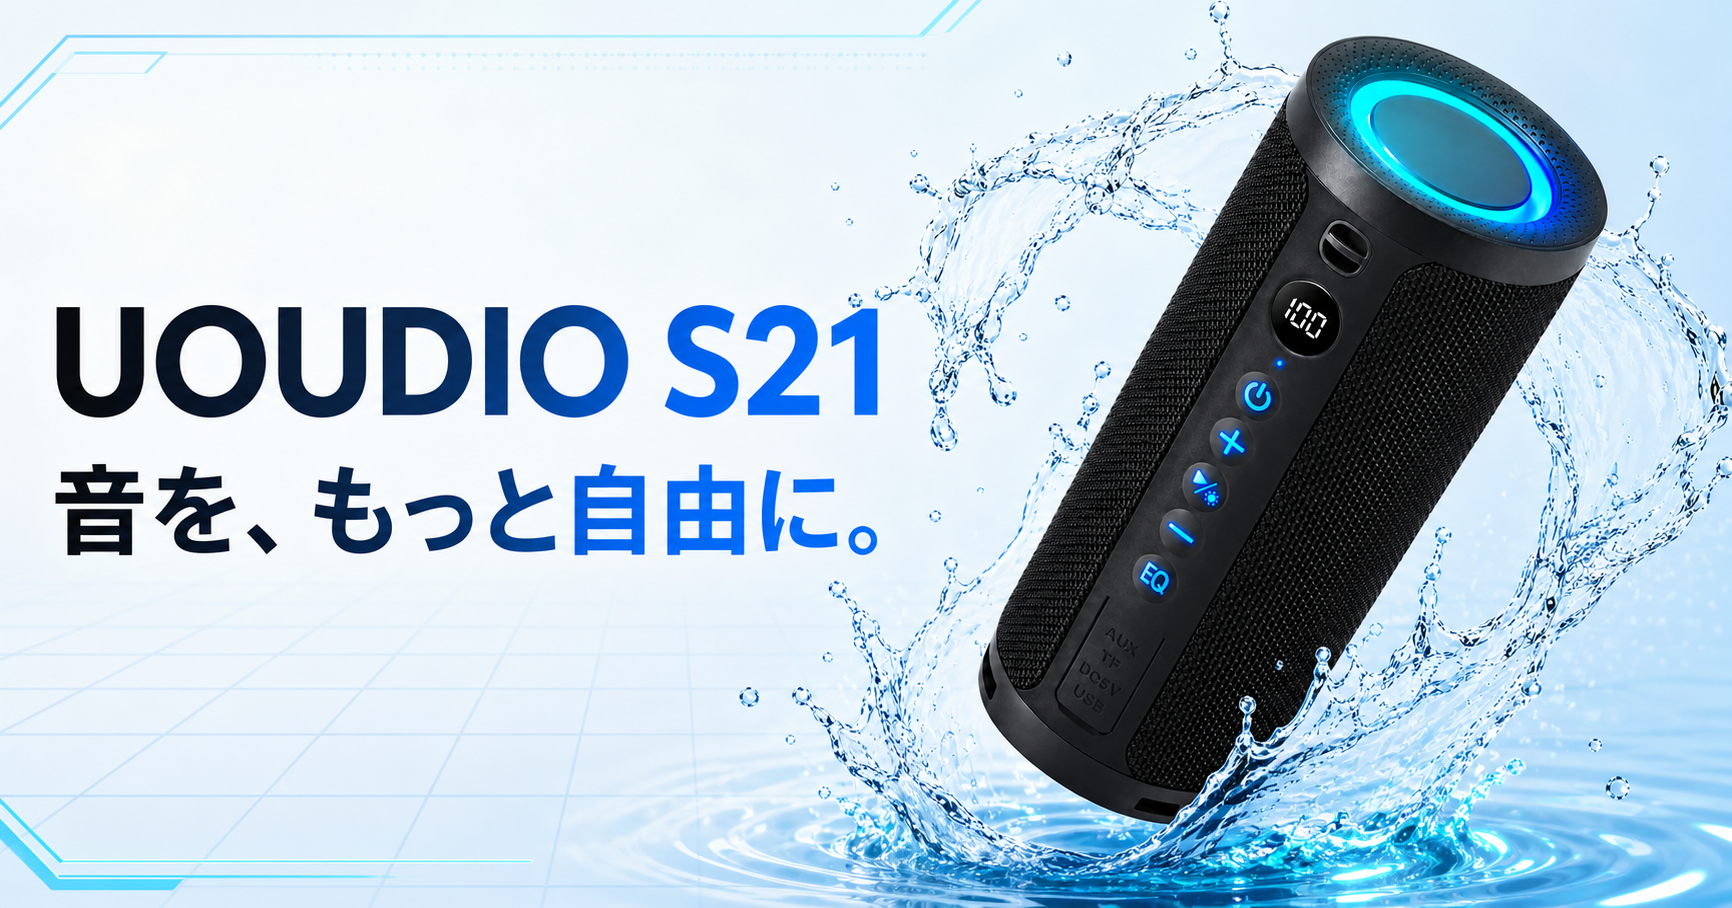
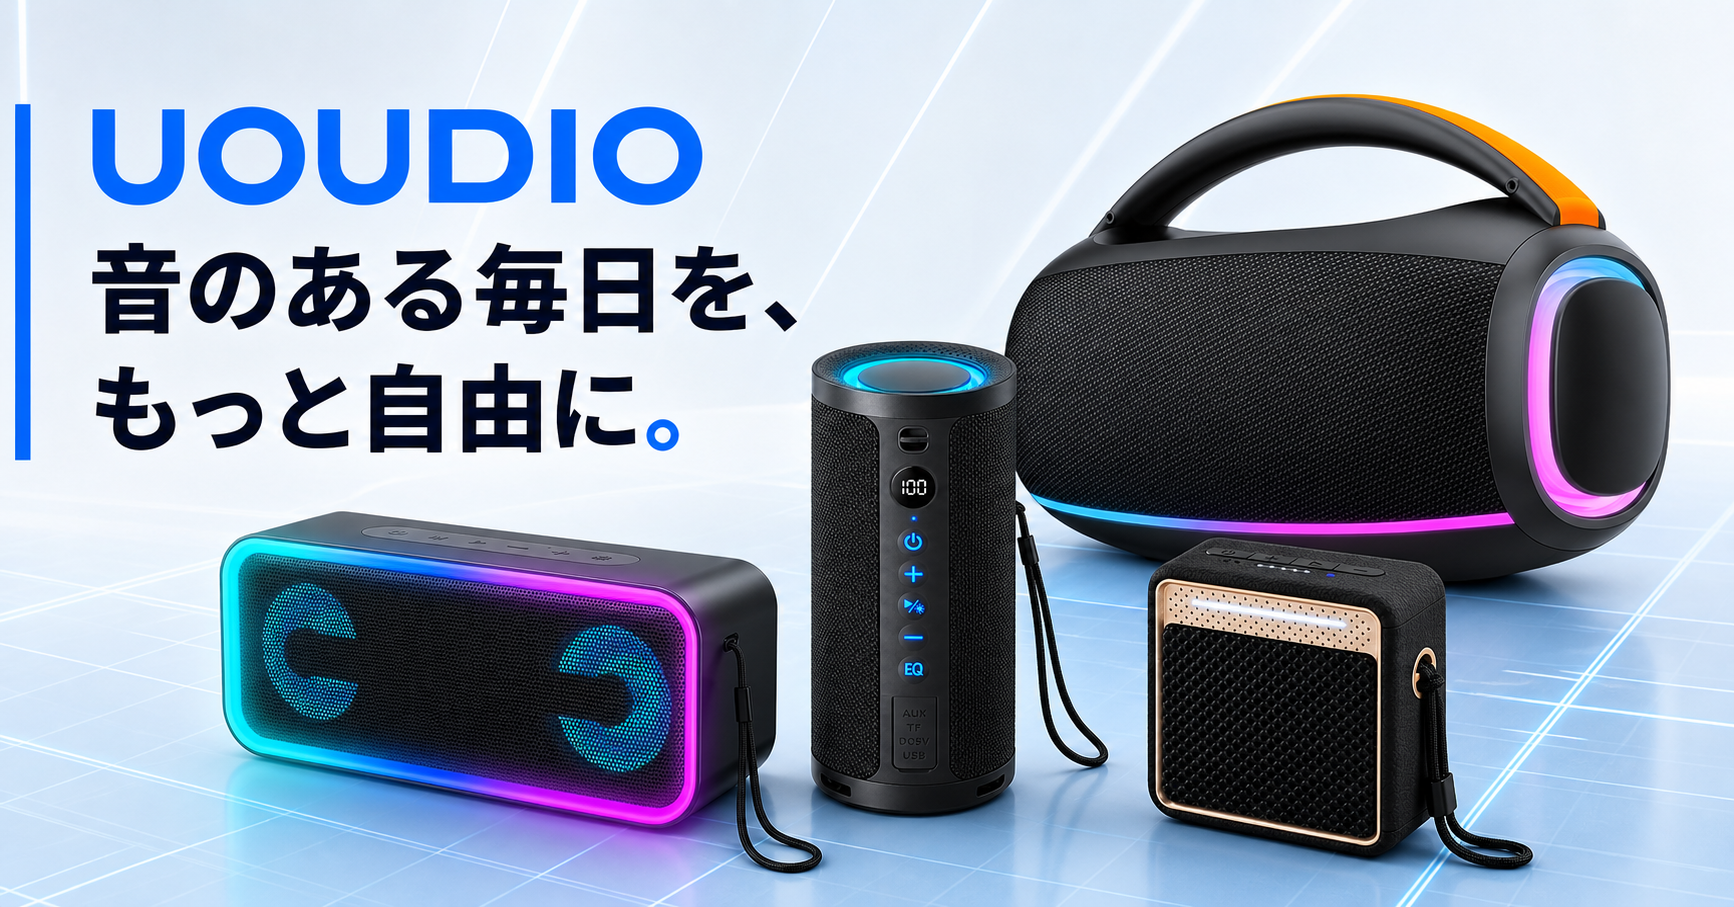
Expand homepage to full product lineup

diff --git a/app/page.tsx b/app/page.tsx
@@ -2,9 +2,9 @@ import type { Metadata } from "next";
 import Image from "next/image";
 
 export const metadata: Metadata = {
-  title: "UOUDIO S21｜防水ポータブルBluetoothスピーカー",
+  title: "UOUDIO Japan｜Bluetoothスピーカー製品一覧・サポート",
   description:
-    "UOUDIO S21の日本向け公式製品ガイド。20Wサウンド、IPX6防水、TWS、EQモードを備えたポータブルBluetoothスピーカー。使い方・よくある質問・Amazon購入後のサポートをご案内します。",
+    "UOUDIOのBluetoothスピーカー製品一覧。S2、S11、S12、S19、S20、S21、GB03、GB MINIの製品情報とAmazon購入後の日本語サポートをご案内します。",
   keywords: [
     "UOUDIO",
     "UOUDIO S21",
@@ -15,6 +15,17 @@ export const metadata: Metadata = {
     "Amazon スピーカー サポート",
   ],
 };
+
+const products = [
+  { model: "S2", image: "/s2.jpg", type: "パワフルモデル", note: "大型ハンドルとワイドなサウンド。アウトドアやパーティーに。", tags: ["RGBライト", "防水設計"] },
+  { model: "S21", image: "/s21-main.jpg", type: "NEW / バランスモデル", note: "20WサウンドとEQを搭載。家でも外でも使いやすい一台。", tags: ["20W", "IPX6", "TWS"] },
+  { model: "S19", image: "/s19.jpg", type: "ライティングモデル", note: "ワイドなRGBライトが音楽の時間を鮮やかに演出。", tags: ["RGBライト", "ポータブル"] },
+  { model: "S20", image: "/s20.jpg", type: "軽量モデル", note: "手軽に持ち運べるスリムボディ。毎日の音楽に。", tags: ["20W", "軽量", "ストラップ"] },
+  { model: "S11", image: "/s11.jpg", type: "タフモデル", note: "水辺のアクティビティにも似合う、円筒型の防水スピーカー。", tags: ["IPX7", "RGBライト"] },
+  { model: "S12", image: "/s12.jpg", type: "コンパクトモデル", note: "手のひらサイズに力強いサウンドとカラーライトを搭載。", tags: ["15W", "防水設計"] },
+  { model: "GB03", image: "/gb03.jpg", type: "ロングプレイモデル", note: "シンプルなスクエアボディで、長時間の再生にも対応。", tags: ["30W", "20時間", "DSP"] },
+  { model: "GB MINI", image: "/gb-mini.jpg", type: "ミニモデル", note: "レトロな質感とコンパクトサイズ。持ち歩きにもデスクにも。", tags: ["10W", "IPX6", "12時間"] },
+];
 
 const features = [
   {
@@ -61,13 +72,20 @@ const faq = [
 export default function Home() {
   const productSchema = {
     "@context": "https://schema.org",
-    "@type": "Product",
-    name: "UOUDIO S21 ポータブルBluetoothスピーカー",
-    brand: { "@type": "Brand", name: "UOUDIO" },
-    model: "S21",
-    description:
-      "20Wサウンド、IPX6防水、TWS、EQモードを備えたポータブルBluetoothスピーカー。",
-    image: "/s21-main.jpg",
+    "@type": "ItemList",
+    name: "UOUDIO Bluetoothスピーカー製品一覧",
+    itemListElement: products.map((product, index) => ({
+      "@type": "ListItem",
+      position: index + 1,
+      item: {
+        "@type": "Product",
+        name: `UOUDIO ${product.model} Bluetoothスピーカー`,
+        brand: { "@type": "Brand", name: "UOUDIO" },
+        model: product.model,
+        image: product.image,
+        description: product.note,
+      },
+    })),
   };
 
   const faqSchema = {
@@ -97,7 +115,7 @@ export default function Home() {
         </a>
         <nav aria-label="メインナビゲーション">
           <a href="#product">製品</a>
-          <a href="#features">特長</a>
+          <a href="#lineup">製品一覧</a>
           <a href="#support">サポート</a>
           <a href="#contact">お問い合わせ</a>
         </nav>
@@ -109,21 +127,21 @@ export default function Home() {
       <main id="top">
         <section className="hero" id="product">
           <div className="hero-copy">
-            <p className="eyebrow"><span /> UOUDIO S21</p>
-            <h1>音を、もっと<br />自由に。</h1>
+            <p className="eyebrow"><span /> PORTABLE AUDIO FOR EVERY MOMENT</p>
+            <h1>音のある毎日を、<br />もっと自由に。</h1>
             <p className="hero-lead">
-              どこへでも連れ出せる、タフでパワフルな<br className="desktop-only" />
-              ポータブルBluetoothスピーカー。
+              コンパクトからパワフルまで。暮らしにも、旅にも、<br className="desktop-only" />
+              あなたにちょうどいいUOUDIOサウンドを。
             </p>
             <div className="hero-actions">
-              <a className="button primary" href="#amazon">Amazonで製品を見る <span>↗</span></a>
+              <a className="button primary" href="#lineup">製品ラインアップ <span>↓</span></a>
               <a className="text-link" href="#support">購入後のサポート <span>→</span></a>
             </div>
             <dl className="spec-strip" aria-label="主な製品仕様">
-              <div><dt>20W</dt><dd>出力</dd></div>
-              <div><dt>IPX6</dt><dd>防水</dd></div>
-              <div><dt>TWS</dt><dd>ステレオ</dd></div>
-              <div><dt>EQ</dt><dd>モード</dd></div>
+              <div><dt>8 MODELS</dt><dd>ラインアップ</dd></div>
+              <div><dt>10–30W</dt><dd>選べる出力</dd></div>
+              <div><dt>WATER</dt><dd>防水モデル</dd></div>
+              <div><dt>RGB</dt><dd>ライト搭載</dd></div>
             </dl>
           </div>
 
@@ -142,7 +160,7 @@ export default function Home() {
             <div className="sound-lines" aria-hidden="true">
               <i /><i /><i /><i />
             </div>
-            <p className="image-note">PORTABLE<br />SOUND SYSTEM</p>
+            <p className="image-note">FEATURED MODEL<br />UOUDIO S21</p>
           </div>
         </section>
 
@@ -152,11 +170,39 @@ export default function Home() {
           <p>製品ガイドをいつでも確認</p>
         </section>
 
+        <section className="lineup section" id="lineup">
+          <div className="lineup-heading">
+            <div className="section-heading">
+              <p className="eyebrow"><span /> PRODUCT LINEUP</p>
+              <h2>あなたのスタイルに、<br />ちょうどいい一台を。</h2>
+            </div>
+            <p>サイズ、サウンド、防水性能、ライト。使う場所や楽しみ方に合わせて、UOUDIOのラインアップからお選びください。</p>
+          </div>
+          <div className="product-grid">
+            {products.map((product, index) => (
+              <article className={`product-card product-${index + 1}`} key={product.model}>
+                <div className="product-card-image">
+                  <Image src={product.image} alt={`UOUDIO ${product.model} Bluetoothスピーカー`} width={1500} height={1500} />
+                  {index === 1 && <span className="new-badge">NEW</span>}
+                </div>
+                <div className="product-card-copy">
+                  <p>{product.type}</p>
+                  <h3>{product.model}</h3>
+                  <div className="product-tags">{product.tags.map((tag) => <span key={tag}>{tag}</span>)}</div>
+                  <p className="product-note">{product.note}</p>
+                  <a href={`https://www.amazon.co.jp/s?k=UOUDIO+${encodeURIComponent(product.model)}`} target="_blank" rel="noreferrer">Amazonで探す <span>↗</span></a>
+                </div>
+              </article>
+            ))}
+          </div>
+          <p className="lineup-note">※ 販売状況・仕様は商品ページをご確認ください。</p>
+        </section>
+
         <section className="features section" id="features">
           <div className="section-heading">
-            <p className="eyebrow"><span /> PRODUCT FEATURES</p>
-            <h2>小さなボディに、<br />楽しさを詰め込んで。</h2>
-            <p>S21は、日常のあらゆる場所を音楽のある空間に変えます。</p>
+            <p className="eyebrow"><span /> FEATURED MODEL / S21</p>
+            <h2>注目モデル、S21。</h2>
+            <p>豊富なラインアップの中から、バランスのよい新モデルS21をご紹介します。</p>
           </div>
           <div className="feature-grid">
             {features.map((feature) => (
@@ -180,7 +226,7 @@ export default function Home() {
             />
           </div>
           <div className="scene-copy">
-            <p className="eyebrow light"><span /> DESIGNED FOR EVERYDAY</p>
+            <p className="eyebrow light"><span /> UOUDIO S21 / DESIGNED FOR EVERYDAY</p>
             <h2>家でも、外でも。<br />好きな場所が、特等席。</h2>
             <p>リビングでのリラックスタイムから、キャンプや海辺のひとときまで。縦置き・横置きに対応したデザインで、音楽の楽しみ方が広がります。</p>
             <ul>
@@ -195,7 +241,7 @@ export default function Home() {
           <div className="support-intro">
             <p className="eyebrow"><span /> AFTER-SALES SUPPORT</p>
             <h2>ご購入後も、<br />すぐそばに。</h2>
-            <p>同梱カードのQRコードからお越しの方へ。まずは下の項目をご確認ください。解決しない場合は、Amazonの注文履歴から販売元へお問い合わせいただけます。</p>
+            <p>同梱カードのQRコードからお越しの方へ。お持ちの製品型番をご確認のうえ、下の項目をご覧ください。解決しない場合は、Amazonの注文履歴から販売元へお問い合わせいただけます。</p>
           </div>
           <div className="support-panel">
             <p className="support-label">お困りの内容を選んでください</p>
@@ -205,7 +251,7 @@ export default function Home() {
               <a href="#faq"><span>03</span><b>音質・操作方法</b><i>→</i></a>
               <a href="#contact"><span>04</span><b>保証・交換のご相談</b><i>→</i></a>
             </div>
-            <p className="support-tip"><b>お問い合わせ前に</b> 注文番号と製品名「S21」、症状が分かる写真または動画をご用意いただくとスムーズです。</p>
+            <p className="support-tip"><b>お問い合わせ前に</b> 注文番号、製品型番、症状が分かる写真または動画をご用意いただくとスムーズです。</p>
           </div>
         </section>
 
@@ -227,8 +273,8 @@ export default function Home() {
         <section className="amazon-section" id="amazon">
           <div>
             <p className="eyebrow light"><span /> OFFICIAL STORE</p>
-            <h2>UOUDIO S21を<br />Amazonでチェック。</h2>
-            <p>価格・在庫・配送予定はAmazonの商品ページでご確認ください。</p>
+            <h2>UOUDIO製品を<br />Amazonでチェック。</h2>
+            <p>各モデルの価格・在庫・配送予定はAmazonの商品ページでご確認ください。</p>
           </div>
           <a className="amazon-button" href="https://www.amazon.co.jp/s?k=UOUDIO+S21" target="_blank" rel="noreferrer">
             <span className="amazon-smile">amazon</span>

diff --git a/app/globals.css b/app/globals.css
@@ -73,7 +73,7 @@ img { display: block; }
 .hero-copy { align-self: center; padding: 70px 6vw 70px 0; position: relative; z-index: 2; }
 .eyebrow { align-items: center; display: flex; font: 800 11px/1.2 Arial, sans-serif; letter-spacing: .21em; margin: 0 0 25px; }
 .eyebrow span { background: var(--blue); display: inline-block; height: 2px; margin-right: 12px; width: 30px; }
-.hero h1 { font-size: clamp(62px, 7.4vw, 118px); letter-spacing: -.075em; line-height: .98; margin: 0 0 30px; }
+.hero h1 { font-size: clamp(52px, 5.8vw, 88px); letter-spacing: -.075em; line-height: 1.06; margin: 0 0 30px; }
 .hero-lead { color: #444b54; font-size: clamp(15px, 1.3vw, 19px); font-weight: 600; letter-spacing: .03em; line-height: 2; }
 .hero-actions { align-items: center; display: flex; gap: 32px; margin-top: 38px; }
 .button { align-items: center; display: inline-flex; justify-content: center; }
@@ -110,6 +110,26 @@ img { display: block; }
 .section-heading { max-width: 650px; }
 .section-heading h2, .support-intro h2, .scene-copy h2, .amazon-section h2 { font-size: clamp(38px, 4.5vw, 64px); letter-spacing: -.055em; line-height: 1.18; margin: 0 0 25px; }
 .section-heading > p:last-child, .support-intro > p:last-child { color: var(--muted); font-size: 14px; line-height: 2; }
+
+.lineup { background: #fff; }
+.lineup-heading { align-items:end; display:grid; gap:7vw; grid-template-columns:1fr .7fr; }
+.lineup-heading > p { color:var(--muted); font-size:13px; line-height:2; margin:0 0 15px; }
+.product-grid { display:grid; gap:22px; grid-template-columns:repeat(2,1fr); margin-top:70px; }
+.product-card { background:#f4f6f8; display:grid; grid-template-columns:1.08fr .92fr; min-height:430px; overflow:hidden; }
+.product-card-image { min-height:430px; overflow:hidden; position:relative; }
+.product-card-image img { height:100%; object-fit:cover; transition:transform .5s ease; width:100%; }
+.product-card:hover .product-card-image img { transform:scale(1.035); }
+.product-1 .product-card-image img, .product-2 .product-card-image img, .product-3 .product-card-image img, .product-5 .product-card-image img, .product-6 .product-card-image img { object-fit:contain; mix-blend-mode:multiply; padding:20px; }
+.product-7 .product-card-image img, .product-8 .product-card-image img { object-position:66% center; }
+.new-badge { background:var(--blue); border-radius:999px; color:#fff; font:800 9px Arial,sans-serif; left:20px; letter-spacing:.12em; padding:9px 13px; position:absolute; top:20px; }
+.product-card-copy { align-self:center; padding:35px 30px; }
+.product-card-copy > p:first-child { color:var(--blue); font-size:9px; font-weight:800; letter-spacing:.1em; margin:0 0 9px; }
+.product-card-copy h3 { font:900 clamp(34px,3.5vw,54px)/1 Arial,sans-serif; letter-spacing:-.03em; margin:0 0 22px; }
+.product-tags { display:flex; flex-wrap:wrap; gap:6px; }
+.product-tags span { border:1px solid #cbd1d8; border-radius:999px; color:#555e68; font-size:9px; font-weight:700; padding:6px 9px; }
+.product-note { color:var(--muted); font-size:11px; line-height:1.8; margin:22px 0; }
+.product-card-copy a { border-bottom:1px solid #9ba2aa; display:inline-flex; font-size:10px; font-weight:800; gap:22px; padding:9px 0; }
+.lineup-note { color:#8a9199; font-size:9px; margin:22px 0 0; text-align:right; }
 .feature-grid { display: grid; gap: 1px; grid-template-columns: repeat(4, 1fr); margin-top: 70px; background: var(--line); }
 .feature-card { background: white; min-height: 380px; padding: 28px; position: relative; transition: background .25s, transform .25s; }
 .feature-card:hover { background: #f5f9ff; transform: translateY(-5px); }
@@ -183,6 +203,8 @@ footer small { border-top:1px solid #24272c; color:#686e76; padding-top:25px; wi
   .hero { grid-template-columns:1fr; padding-left:0; }.hero-copy { padding:80px 7vw 50px; }
   .hero-visual { min-height:600px; }.product-image { height:min(100vw,650px); width:min(100vw,650px); }
   .feature-grid { grid-template-columns:repeat(2,1fr); }
+  .lineup-heading { align-items:start; grid-template-columns:1fr; }.lineup-heading > p { max-width:600px; }
+  .product-card { grid-template-columns:1fr; }.product-card-image { min-height:360px; }.product-card-copy { padding:28px; }
   .scene-section { grid-template-columns:1fr; }.scene-image { max-height:600px; }.scene-image::after { background:linear-gradient(0deg,var(--navy),transparent 50%); }
   .scene-copy { padding:20px 8vw 100px; }
   .support, .faq { gap:60px; grid-template-columns:1fr; }
@@ -191,12 +213,13 @@ footer small { border-top:1px solid #24272c; color:#686e76; padding-top:25px; wi
 
 @media (max-width: 620px) {
   .site-header { height:66px; padding:0 18px; }.brand { font-size:20px; }.header-cta { font-size:10px; min-height:38px; padding:0 16px; }
-  .hero { min-height:auto; }.hero-copy { padding:65px 22px 45px; }.hero h1 { font-size:59px; }.hero-lead { font-size:14px; }.desktop-only { display:none; }
+  .hero { min-height:auto; }.hero-copy { padding:65px 22px 45px; }.hero h1 { font-size:48px; }.hero-lead { font-size:14px; }.desktop-only { display:none; }
   .hero-actions { align-items:flex-start; flex-direction:column; gap:16px; }.button.primary { width:100%; }
   .spec-strip { margin-top:50px; }.spec-strip div { padding-left:10px; }.spec-strip dt { font-size:16px; }
   .hero-visual { min-height:440px; }.product-image { height:112vw; width:112vw; }.image-note { left:20px; }.sound-lines { right:5%; }
   .trust-bar { align-items:flex-start; flex-direction:column; gap:10px; padding:22px; }.trust-bar span { display:none; }
   .section { padding:90px 22px; }.section-heading h2,.support-intro h2,.scene-copy h2,.amazon-section h2 { font-size:38px; }
+  .product-grid { grid-template-columns:1fr; margin-top:45px; }.product-card { min-height:0; }.product-card-image { min-height:320px; }.product-card-copy h3 { font-size:40px; }
   .feature-grid { grid-template-columns:1fr; margin-top:50px; }.feature-card { min-height:320px; }.feature-icon { margin:34px 0 25px; }
   .scene-image { min-height:440px; }.scene-copy { padding:10px 22px 80px; }
   .support-panel { padding:25px 20px; }.support-links a { grid-template-columns:38px 1fr 25px; }

diff --git a/app/layout.tsx b/app/layout.tsx
@@ -21,14 +21,14 @@ export async function generateMetadata(): Promise<Metadata> {
       type: "website",
       locale: "ja_JP",
       siteName: "UOUDIO Japan",
-      title: "UOUDIO S21｜音を、もっと自由に。",
-      description: "防水ポータブルBluetoothスピーカー S21の製品情報と購入後サポート。",
-      images: [{ url: `${origin}/og.png`, width: 1732, height: 908, alt: "UOUDIO S21｜音を、もっと自由に。" }],
+      title: "UOUDIO Japan｜音のある毎日を、もっと自由に。",
+      description: "UOUDIO Bluetoothスピーカーの製品ラインアップとAmazon購入後サポート。",
+      images: [{ url: `${origin}/og.png`, width: 1732, height: 908, alt: "UOUDIO Bluetoothスピーカー" }],
     },
     twitter: {
       card: "summary_large_image",
-      title: "UOUDIO S21｜音を、もっと自由に。",
-      description: "防水ポータブルBluetoothスピーカー S21の製品情報と購入後サポート。",
+      title: "UOUDIO Japan｜音のある毎日を、もっと自由に。",
+      description: "UOUDIO Bluetoothスピーカーの製品ラインアップとAmazon購入後サポート。",
       images: [`${origin}/og.png`],
     },
   };
